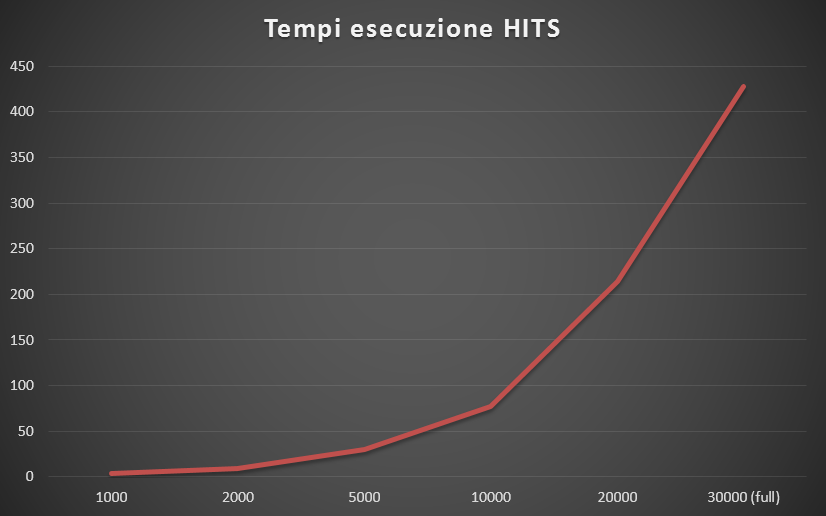
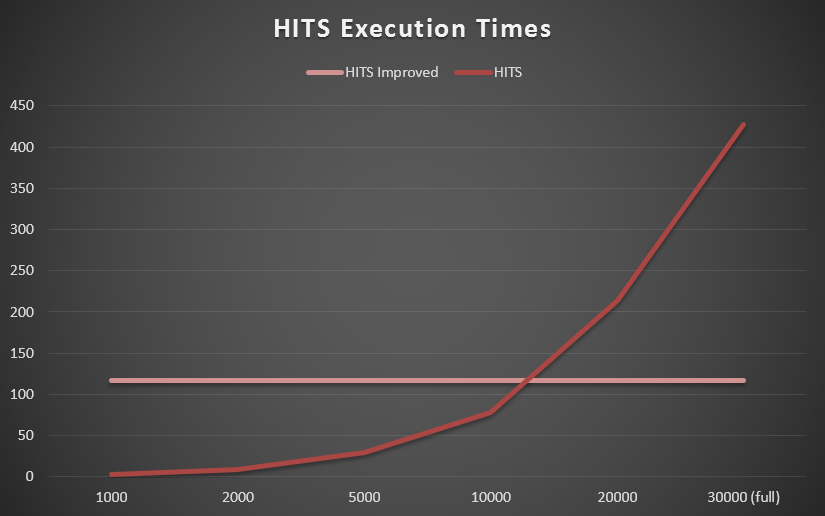
Updated Images and tested improved HITS

diff --git a/Script/HITS.py b/Script/HITS.py
@@ -121,8 +121,8 @@ def HITS2(graph,step,confidence=1.0e-6):
     if diffa <= confidence or diffh < confidence:
         done = 1
 
-    #if np.abs(olddiffa-diffa) <= confidence or np.abs(olddiffh-diffh) <= confidence:
-    #    done = 1
+    if np.abs(olddiffa-diffa) <= confidence or np.abs(olddiffh-diffh) <= confidence:
+        done = 1
 
     olddiffa = diffa
     olddiffh = diffh
